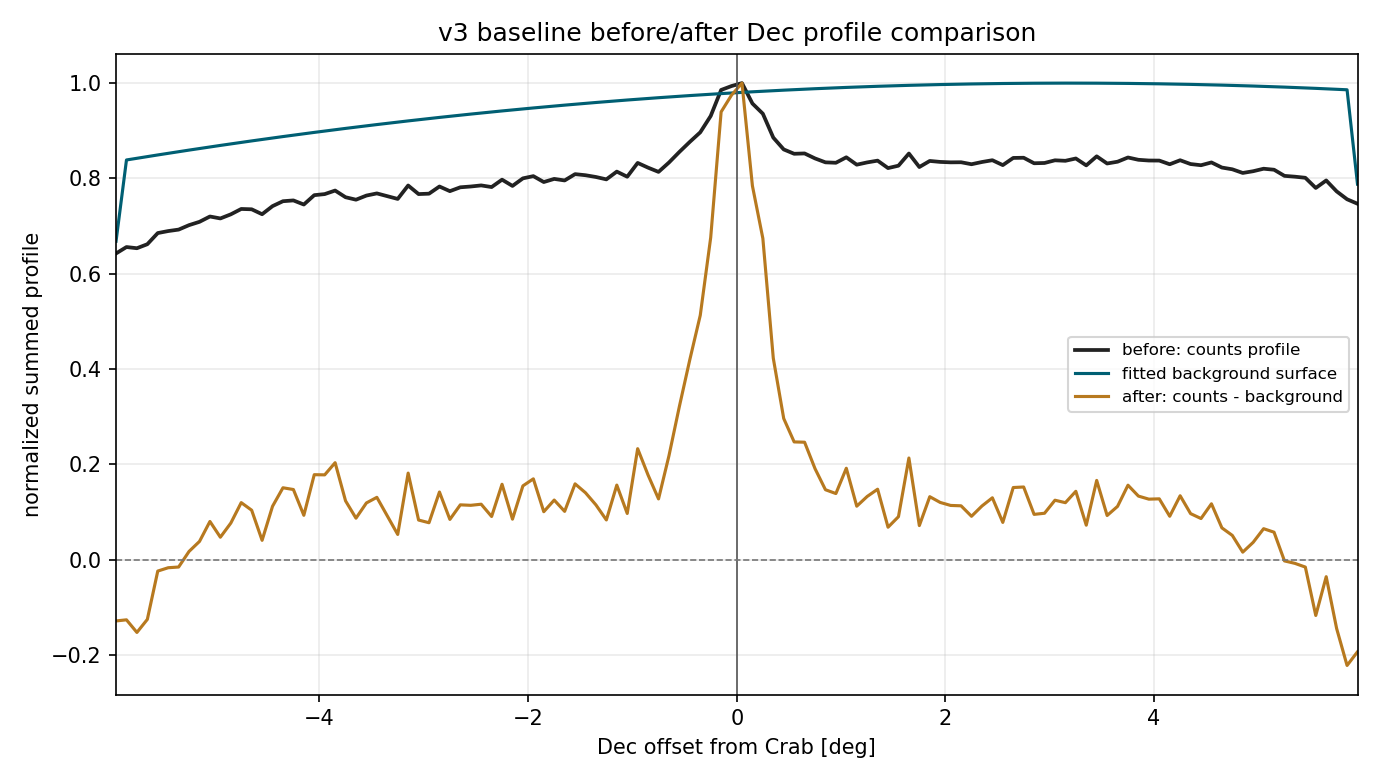
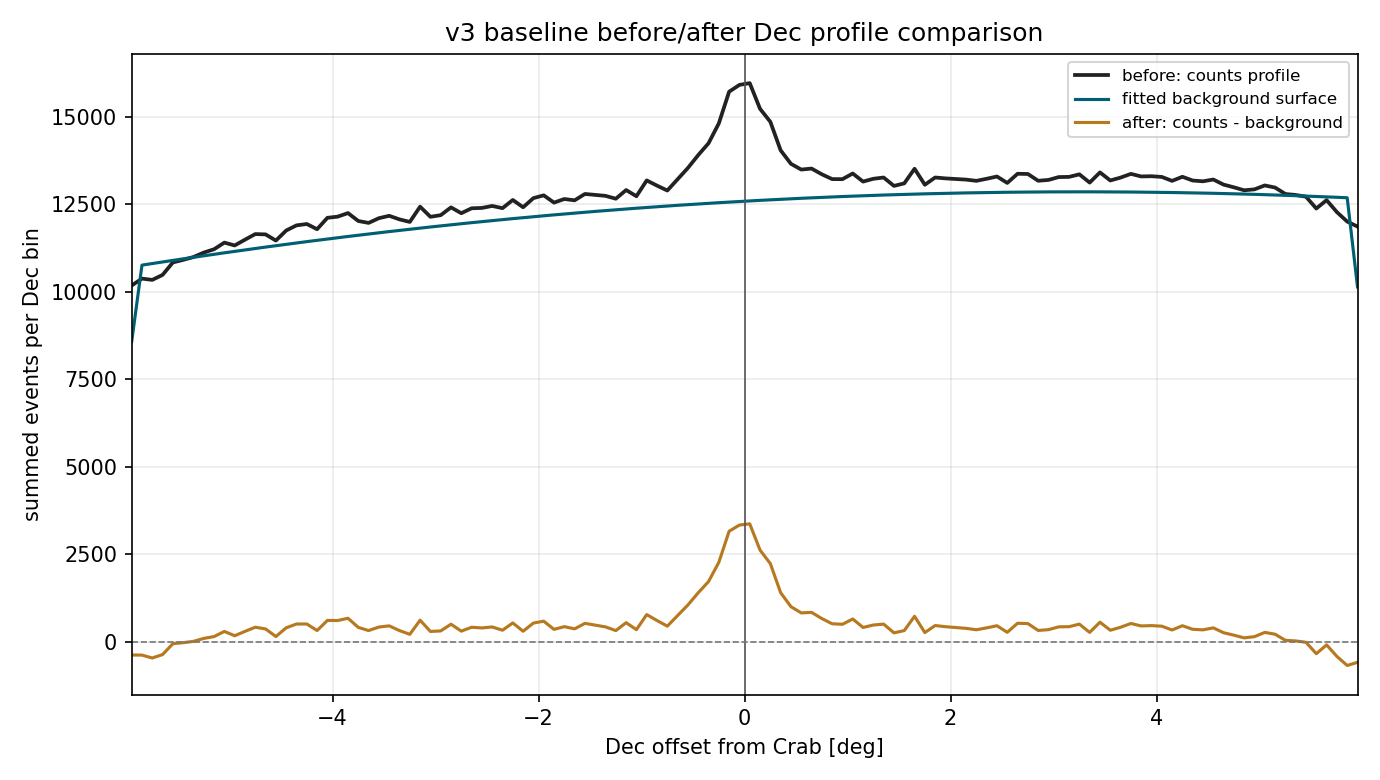
Use raw Dec profiles in v3 background comparison

diff --git a/apply/report/crab_sed_v3_stage_a_to_g_report.html b/apply/report/crab_sed_v3_stage_a_to_g_report.html
@@ -362,7 +362,7 @@ footer { margin-top:48px; padding-top:18px; border-top:1px solid var(--border); 
     <div class="callout">
       图表读法：candidate-grid 图通常按行显示 Nhit bin、按列显示 predE bin；白色圆圈表示 <code>rho=6 deg</code> fiducial ROI，中心标记是 Crab。空白或破碎 panel 通常来自 excluded diagnostic/probe cells 的零统计或低统计，不代表 baseline fit cells 全部失败。先看 counts 和 training mask，再看 fitted background、annulus residual，最后看 excess 和 Stage F/G 结果。
     </div>
-    <div class="figure-grid"><figure class="wide"><img src="assets/v3-cell-selection/v3_cell_selection_matrix.png" alt="v3 cell selection matrix"><figcaption><strong>v3 cell selection matrix</strong><span class="figure-note">Rows are Nhit bins and columns are predE bins. The colors separate baseline fit cells, systematics/probe cells, and cells excluded by prefit MC/response rules; this is the selector freeze audit, not a Crab-excess driven selection.</span></figcaption></figure><figure class="wide"><img src="assets/v3-cell-selection/v3_mc_true_energy_overlay.png" alt="MC normalized true-energy distribution overlay"><figcaption><strong>MC normalized true-energy distribution overlay</strong><span class="figure-note">Each colored curve is the normalized MC true-energy distribution for one v3 predE bin. Use it to see energy overlap, median shifts, and whether the mixed binning gives sensible true-energy coverage.</span></figcaption></figure><figure class="wide"><img src="assets/v3-cell-selection/v3_central99_mask.png" alt="MC central-99% selection mask"><figcaption><strong>MC central-99% selection mask</strong><span class="figure-note">This shows which Nhit x predE cells fall inside the MC reconstructed-energy central-99% population. It is the first prefit selector cut and does not use Crab excess or fit residuals.</span></figcaption></figure><figure class="wide"><img src="assets/v3-cell-selection/v3_mc_occupancy_ridge_fraction.png" alt="MC occupancy ridge fraction"><figcaption><strong>MC occupancy ridge fraction</strong><span class="figure-note">Each cell is normalized by the maximum MC count in its Nhit row. The v3 baseline ridge is generated from this prefit occupancy fraction together with central99, MC-count, and high-energy-bin rules; highlighted baseline cells are not chosen from Crab on-source significance.</span></figcaption></figure><figure class="wide"><img src="assets/crab-v3-baseline-fit-cell-profiles/crab_v3_baseline_fit_ra_normalized_counts_profiles.png" alt="candidate-grid normalized RA-offset counts profiles (v3_baseline fit cells highlighted)"><figcaption><strong>candidate-grid normalized RA-offset counts profiles (v3_baseline fit cells highlighted)</strong><span class="figure-note">For every candidate cell, counts are summed in a |Dec offset|&lt;1 deg band and divided by that cell&#x27;s own peak. Light gray bands mark that cell&#x27;s Stage D annulus-training radii projected onto the RA-offset slice as [-outer,-inner] and [inner,outer]; highlighted panels are baseline fit cells. Empty panels mean the profile peak is zero or the cell has no usable events in the profile band.</span></figcaption></figure><figure class="wide"><img src="assets/crab-v3-baseline-fit-cell-profiles/crab_v3_baseline_fit_dec_normalized_counts_profiles.png" alt="candidate-grid normalized Dec-offset counts profiles (v3_baseline fit cells highlighted)"><figcaption><strong>candidate-grid normalized Dec-offset counts profiles (v3_baseline fit cells highlighted)</strong><span class="figure-note">For every candidate cell, counts are summed in a |RA offset|&lt;1 deg band and normalized by the cell&#x27;s peak. Compare this with the RA profile to check Dec-direction imbalance and PSF width changes across cells.</span></figcaption></figure><figure class="wide"><img src="assets/crab-v3-baseline-fit-cell-profiles/crab_v3_baseline_fit_ra_normalized_excess_profiles.png" alt="candidate-grid normalized RA-offset excess profiles after background subtraction (v3_baseline fit cells highlighted)"><figcaption><strong>candidate-grid normalized RA-offset excess profiles after background subtraction (v3_baseline fit cells highlighted)</strong><span class="figure-note">Same RA profile diagnostic after subtracting the fitted background. A centered narrow excess is desirable; asymmetric tails indicate residual background or low-stat behavior.</span></figcaption></figure><figure class="wide"><img src="assets/crab-v3-baseline-fit-cell-profiles/crab_v3_baseline_fit_dec_normalized_excess_profiles.png" alt="candidate-grid normalized Dec-offset excess profiles after background subtraction (v3_baseline fit cells highlighted)"><figcaption><strong>candidate-grid normalized Dec-offset excess profiles after background subtraction (v3_baseline fit cells highlighted)</strong><span class="figure-note">Same Dec profile diagnostic after background subtraction. This is the direct check of whether the v3 annulus surface reduces Dec-direction background imbalance around Crab.</span></figcaption></figure><figure class="wide"><img src="../output/stage_d_v3_candidate/runs/v3_stage_d_slurm_42024/roi_counts_grid.png" alt="Stage D counts map grid with rho=6 deg circle"><figcaption><strong>Stage D counts map grid with rho=6 deg circle</strong><span class="figure-note">Observed candidate-grid counts maps. The shared log color scale makes gross background levels comparable across cells, but low-stat cells can look blank because they contain few or no events.</span></figcaption></figure><figure class="wide"><img src="../output/stage_d_v3_candidate/runs/v3_stage_d_slurm_42024/annulus_training_mask_grid.png" alt="Annulus training mask grid"><figcaption><strong>Annulus training mask grid</strong><span class="figure-note">Shows which pixels train the local background surface for each cell. The source/core region is excluded; shifted annuli appear at larger radius for broad-PSF or low-Nhit cells.</span></figcaption></figure><figure class="wide"><img src="../output/stage_d_v3_candidate/runs/v3_stage_d_slurm_42024/roi_background_grid.png" alt="Fitted 2D background surface grid"><figcaption><strong>Fitted 2D background surface grid</strong><span class="figure-note">This is the fitted background expectation, not data and not excess. Stage D fits a quadratic 2D surface on the annulus and extrapolates it across the ROI; smooth surfaces are good, while holes, crescent shapes, or sharp edge features usually flag low-stat or failed diagnostic cells.</span></figcaption></figure><figure class="wide"><img src="../output/stage_d_v3_candidate/runs/v3_stage_d_slurm_42024/annulus_residual_grid.png" alt="Annulus residual grid"><figcaption><strong>Annulus residual grid</strong><span class="figure-note">Residuals in the annulus training region after fitting the background surface. Values should be structureless around zero; coherent RA/Dec patterns mean the quadratic surface is not capturing the local background.</span></figcaption></figure><figure class="wide"><img src="../output/stage_d_v3_candidate/runs/v3_stage_d_slurm_42024/core_background_grid.png" alt="Core extrapolated background grid"><figcaption><strong>Core extrapolated background grid</strong><span class="figure-note">Background expectation restricted to the source/on aperture used for B_on. This view shows exactly what is integrated as background under the Crab region for each cell.</span></figcaption></figure><figure class="wide"><img src="../output/stage_d_v3_candidate/runs/v3_stage_d_slurm_42024/roi_excess_grid.png" alt="Stage D counts minus fitted 2D background skymap"><figcaption><strong>Stage D counts minus fitted 2D background skymap</strong><span class="figure-note">Candidate-grid residual skymaps computed as observed Stage D counts minus the fitted 2D background surface. This is the background-subtracted counterpart to the counts map grid with the rho=6 deg circle.</span></figcaption></figure><figure class="wide"><img src="assets/v3-background-systematics/v3_background_before_after_dec_profile.png" alt="Before/after Dec profile comparison for v3 baseline fit cells"><figcaption><strong>Before/after Dec profile comparison for v3 baseline fit cells</strong><span class="figure-note">Compares Dec-direction behavior before and after applying the v3 background method. The goal is to reduce Dec-gradient residuals without erasing the central Crab excess.</span></figcaption></figure><figure class="wide"><img src="assets/v3-background-systematics/v3_background_method_sensitivity_summary.png" alt="Background-method sensitivity summary"><figcaption><strong>Background-method sensitivity summary</strong><span class="figure-note">Compares nominal and alternative background variants such as annulus placement and surface order. Large shifts in flux or sigma indicate background-model systematic risk.</span></figcaption></figure><figure class="wide"><img src="assets/v3-validation/v3_selector_sensitivity_summary.png" alt="Cell-selection sensitivity summary"><figcaption><strong>Cell-selection sensitivity summary</strong><span class="figure-note">Selector audit using the current active 30-cell PSF-borrow selector as the reference. The 27-cell nominal reference is the pre-borrow selector that drops 39/52/65; the 62-cell expanded selector tests whether adding central99 cells improves or destabilizes the fit.</span></figcaption></figure><figure class="wide"><img src="assets/v3-validation/v3_response_closure_summary.png" alt="Stage A response histogram self-closure summary"><figcaption><strong>Stage A response histogram self-closure summary</strong><span class="figure-note">Checks whether Stage A response histograms fold back to their MC numerator truth. Large closure errors point to response binning, normalization, or bookkeeping problems.</span></figcaption></figure><figure><img src="../output/stage_f_v3_baseline/runs/v3_stage_f_slurm_42024/model_counts_vs_excess.png" alt="Stage F model counts vs excess"><figcaption><strong>Stage F model counts vs excess</strong><span class="figure-note">Compares forward-folded model counts to Stage E excess per fit cell. Points far from the one-to-one trend identify cells that dominate chi-square or disagree with the fitted spectrum.</span></figcaption></figure><figure><img src="../output/stage_f_v3_baseline/runs/v3_stage_f_slurm_42024/pull_grid_logpar.png" alt="Stage F pull grid"><figcaption><strong>Stage F pull grid</strong><span class="figure-note">Per-cell fit pull for the preferred spectral model. Random small pulls are expected; coherent regions in Nhit/predE space suggest response, background, or selector systematics.</span></figcaption></figure><figure class="wide"><img src="assets/official-pass5/stage_g_sed_points_with_official_refs.png" alt="Stage G SED points"><figcaption><strong>Stage G SED points</strong><span class="figure-note">Diagnostic SED points built by refitting normalization in reconstructed-energy groups with the Stage F spectral shape fixed. This report version overlays the official pass5 Nhit SED and tutorial v0.99 WCDA-only SED directly on the Stage G SED plot; pass5 points are shown without error bars because the transferred summary did not include uncertainties.</span></figcaption></figure><figure class="wide"><img src="assets/official-pass5/wcda_pass5_vs_v3_stage_g_sed_overlay.png" alt="Official/tutorial WCDA SEDs versus v3 Stage G diagnostics"><figcaption><strong>Official/tutorial WCDA SEDs versus v3 Stage G diagnostics</strong><span class="figure-note">Standalone comparison view for official pass5 Nhit SED and tutorial v0.99 WCDA-only SED points versus v3 Stage G diagnostics. Keep this separate view for checking the two external WCDA products against nominal and PSF-borrow v3 points.</span></figcaption></figure><figure><img src="../output/stage_g_v3_baseline/runs/v3_stage_g_slurm_42024/sed_points_ratio.png" alt="Stage G SED ratios"><figcaption><strong>Stage G SED ratios</strong><span class="figure-note">Ratio of each diagnostic SED point to the Stage F reference model. A flat ratio near one means Stage G is consistent with the global fit; trends reveal curvature or bin-specific bias.</span></figcaption></figure><figure><img src="../output/stage_g_v3_baseline/runs/v3_stage_g_slurm_42024/sed_point_cell_counts.png" alt="Stage G cell counts per point"><figcaption><strong>Stage G cell counts per point</strong><span class="figure-note">Shows how many cells contribute to each Stage G SED point. High-energy points with few cells should be interpreted more conservatively.</span></figcaption></figure><figure class="wide"><img src="assets/crab-v3-psfborrow-fit-cell-skymaps/crab_v3_psfborrow_fit_counts_grid.png" alt="PSF-borrow fit-cell Stage D counts skymap"><figcaption><strong>PSF-borrow fit-cell Stage D counts skymap</strong><span class="figure-note">Observed counts maps for the PSF borrowing systematic selector. Cells 39/52/65 are included after neighboring-PSF repair, while high-Nhit edge cells 79/80 remain excluded.</span></figcaption></figure><figure class="wide"><img src="assets/crab-v3-psfborrow-fit-cell-skymaps/crab_v3_psfborrow_fit_excess_grid.png" alt="PSF-borrow fit-cell Stage D excess skymap"><figcaption><strong>PSF-borrow fit-cell Stage D excess skymap</strong><span class="figure-note">Counts minus fitted background for the PSF borrowing systematic selector. Compare against the nominal fit-cell excess map to isolate aperture/containment-driven changes.</span></figcaption></figure><figure class="wide"><img src="assets/v3-psfborrow/v3_psfborrow_sed_overlay.png" alt="PSF-borrow versus nominal Stage G SED overlay"><figcaption><strong>PSF-borrow versus nominal Stage G SED overlay</strong><span class="figure-note">Nominal reference Stage G points and PSF borrowing systematic points overlaid. This is a systematic comparison, not a new nominal promotion.</span></figcaption></figure><figure><img src="../output/stage_g_v3_baseline_psfborrow/runs/v3_stage_g_psfborrow_slurm_42029/sed_points_stage_f_fullarray_pool1.png" alt="PSF-borrow Stage G SED points"><figcaption><strong>PSF-borrow Stage G SED points</strong><span class="figure-note">Diagnostic SED points built from the PSF borrowing Stage F spectrum and Stage E signal table.</span></figcaption></figure><figure><img src="../output/stage_g_v3_baseline_psfborrow/runs/v3_stage_g_psfborrow_slurm_42029/sed_points_ratio.png" alt="PSF-borrow Stage G SED ratios"><figcaption><strong>PSF-borrow Stage G SED ratios</strong><span class="figure-note">Ratio of the PSF borrowing diagnostic SED points to the corresponding Stage F reference model.</span></figcaption></figure><figure class="wide"><img src="assets/v3-normalization-diagnostics/v3_official_forward_fold_counts_vs_excess.png" alt="Official/tutorial forward-fold expected counts versus Stage E excess"><figcaption><strong>Official/tutorial forward-fold expected counts versus Stage E excess</strong><span class="figure-note">The official pass5 and tutorial v0.99 SED points are interpolated as piecewise power laws, folded through the Stage A response and Stage F theta exposure, and compared cell-by-cell with Stage E excess. Points above the dashed diagonal mean observed excess exceeds the official/tutorial expectation.</span></figcaption></figure><figure class="wide"><img src="assets/v3-normalization-diagnostics/v3_official_forward_fold_ratio_by_cell.png" alt="Official/tutorial forward-fold normalization ratio by cell"><figcaption><strong>Official/tutorial forward-fold normalization ratio by cell</strong><span class="figure-note">Active 30-cell PSF-borrow branch only. The dashed and dotted reference lines mark observed/expected = 1 and 1.5.</span></figcaption></figure><figure class="wide"><img src="assets/v3-normalization-diagnostics/v3_offsource_core_residual_by_cell.png" alt="Off-source fake-source core residual by cell"><figcaption><strong>Off-source fake-source core residual by cell</strong><span class="figure-note">Fake-source Stage E residuals in the active 30-cell branch. Positive residuals would support a local background underprediction; the produced controls are dominated by negative residuals.</span></figcaption></figure></div>
+    <div class="figure-grid"><figure class="wide"><img src="assets/v3-cell-selection/v3_cell_selection_matrix.png" alt="v3 cell selection matrix"><figcaption><strong>v3 cell selection matrix</strong><span class="figure-note">Rows are Nhit bins and columns are predE bins. The colors separate baseline fit cells, systematics/probe cells, and cells excluded by prefit MC/response rules; this is the selector freeze audit, not a Crab-excess driven selection.</span></figcaption></figure><figure class="wide"><img src="assets/v3-cell-selection/v3_mc_true_energy_overlay.png" alt="MC normalized true-energy distribution overlay"><figcaption><strong>MC normalized true-energy distribution overlay</strong><span class="figure-note">Each colored curve is the normalized MC true-energy distribution for one v3 predE bin. Use it to see energy overlap, median shifts, and whether the mixed binning gives sensible true-energy coverage.</span></figcaption></figure><figure class="wide"><img src="assets/v3-cell-selection/v3_central99_mask.png" alt="MC central-99% selection mask"><figcaption><strong>MC central-99% selection mask</strong><span class="figure-note">This shows which Nhit x predE cells fall inside the MC reconstructed-energy central-99% population. It is the first prefit selector cut and does not use Crab excess or fit residuals.</span></figcaption></figure><figure class="wide"><img src="assets/v3-cell-selection/v3_mc_occupancy_ridge_fraction.png" alt="MC occupancy ridge fraction"><figcaption><strong>MC occupancy ridge fraction</strong><span class="figure-note">Each cell is normalized by the maximum MC count in its Nhit row. The v3 baseline ridge is generated from this prefit occupancy fraction together with central99, MC-count, and high-energy-bin rules; highlighted baseline cells are not chosen from Crab on-source significance.</span></figcaption></figure><figure class="wide"><img src="assets/crab-v3-baseline-fit-cell-profiles/crab_v3_baseline_fit_ra_normalized_counts_profiles.png" alt="candidate-grid normalized RA-offset counts profiles (v3_baseline fit cells highlighted)"><figcaption><strong>candidate-grid normalized RA-offset counts profiles (v3_baseline fit cells highlighted)</strong><span class="figure-note">For every candidate cell, counts are summed in a |Dec offset|&lt;1 deg band and divided by that cell&#x27;s own peak. Light gray bands mark that cell&#x27;s Stage D annulus-training radii projected onto the RA-offset slice as [-outer,-inner] and [inner,outer]; highlighted panels are baseline fit cells. Empty panels mean the profile peak is zero or the cell has no usable events in the profile band.</span></figcaption></figure><figure class="wide"><img src="assets/crab-v3-baseline-fit-cell-profiles/crab_v3_baseline_fit_dec_normalized_counts_profiles.png" alt="candidate-grid normalized Dec-offset counts profiles (v3_baseline fit cells highlighted)"><figcaption><strong>candidate-grid normalized Dec-offset counts profiles (v3_baseline fit cells highlighted)</strong><span class="figure-note">For every candidate cell, counts are summed in a |RA offset|&lt;1 deg band and normalized by the cell&#x27;s peak. Compare this with the RA profile to check Dec-direction imbalance and PSF width changes across cells.</span></figcaption></figure><figure class="wide"><img src="assets/crab-v3-baseline-fit-cell-profiles/crab_v3_baseline_fit_ra_normalized_excess_profiles.png" alt="candidate-grid normalized RA-offset excess profiles after background subtraction (v3_baseline fit cells highlighted)"><figcaption><strong>candidate-grid normalized RA-offset excess profiles after background subtraction (v3_baseline fit cells highlighted)</strong><span class="figure-note">Same RA profile diagnostic after subtracting the fitted background. A centered narrow excess is desirable; asymmetric tails indicate residual background or low-stat behavior.</span></figcaption></figure><figure class="wide"><img src="assets/crab-v3-baseline-fit-cell-profiles/crab_v3_baseline_fit_dec_normalized_excess_profiles.png" alt="candidate-grid normalized Dec-offset excess profiles after background subtraction (v3_baseline fit cells highlighted)"><figcaption><strong>candidate-grid normalized Dec-offset excess profiles after background subtraction (v3_baseline fit cells highlighted)</strong><span class="figure-note">Same Dec profile diagnostic after background subtraction. This is the direct check of whether the v3 annulus surface reduces Dec-direction background imbalance around Crab.</span></figcaption></figure><figure class="wide"><img src="../output/stage_d_v3_candidate/runs/v3_stage_d_slurm_42024/roi_counts_grid.png" alt="Stage D counts map grid with rho=6 deg circle"><figcaption><strong>Stage D counts map grid with rho=6 deg circle</strong><span class="figure-note">Observed candidate-grid counts maps. The shared log color scale makes gross background levels comparable across cells, but low-stat cells can look blank because they contain few or no events.</span></figcaption></figure><figure class="wide"><img src="../output/stage_d_v3_candidate/runs/v3_stage_d_slurm_42024/annulus_training_mask_grid.png" alt="Annulus training mask grid"><figcaption><strong>Annulus training mask grid</strong><span class="figure-note">Shows which pixels train the local background surface for each cell. The source/core region is excluded; shifted annuli appear at larger radius for broad-PSF or low-Nhit cells.</span></figcaption></figure><figure class="wide"><img src="../output/stage_d_v3_candidate/runs/v3_stage_d_slurm_42024/roi_background_grid.png" alt="Fitted 2D background surface grid"><figcaption><strong>Fitted 2D background surface grid</strong><span class="figure-note">This is the fitted background expectation, not data and not excess. Stage D fits a quadratic 2D surface on the annulus and extrapolates it across the ROI; smooth surfaces are good, while holes, crescent shapes, or sharp edge features usually flag low-stat or failed diagnostic cells.</span></figcaption></figure><figure class="wide"><img src="../output/stage_d_v3_candidate/runs/v3_stage_d_slurm_42024/annulus_residual_grid.png" alt="Annulus residual grid"><figcaption><strong>Annulus residual grid</strong><span class="figure-note">Residuals in the annulus training region after fitting the background surface. Values should be structureless around zero; coherent RA/Dec patterns mean the quadratic surface is not capturing the local background.</span></figcaption></figure><figure class="wide"><img src="../output/stage_d_v3_candidate/runs/v3_stage_d_slurm_42024/core_background_grid.png" alt="Core extrapolated background grid"><figcaption><strong>Core extrapolated background grid</strong><span class="figure-note">Background expectation restricted to the source/on aperture used for B_on. This view shows exactly what is integrated as background under the Crab region for each cell.</span></figcaption></figure><figure class="wide"><img src="../output/stage_d_v3_candidate/runs/v3_stage_d_slurm_42024/roi_excess_grid.png" alt="Stage D counts minus fitted 2D background skymap"><figcaption><strong>Stage D counts minus fitted 2D background skymap</strong><span class="figure-note">Candidate-grid residual skymaps computed as observed Stage D counts minus the fitted 2D background surface. This is the background-subtracted counterpart to the counts map grid with the rho=6 deg circle.</span></figcaption></figure><figure class="wide"><img src="assets/v3-background-systematics/v3_background_before_after_dec_profile.png" alt="Before/after Dec profile comparison for v3 baseline fit cells"><figcaption><strong>Before/after Dec profile comparison for v3 baseline fit cells</strong><span class="figure-note">Compares unnormalized summed Dec profiles before and after applying the v3 background method, using the baseline fit cells and the same |RA offset|&lt;1 deg band. The goal is to see the absolute Dec-gradient residual rather than peak-normalized shapes.</span></figcaption></figure><figure class="wide"><img src="assets/v3-background-systematics/v3_background_method_sensitivity_summary.png" alt="Background-method sensitivity summary"><figcaption><strong>Background-method sensitivity summary</strong><span class="figure-note">Compares nominal and alternative background variants such as annulus placement and surface order. Large shifts in flux or sigma indicate background-model systematic risk.</span></figcaption></figure><figure class="wide"><img src="assets/v3-validation/v3_selector_sensitivity_summary.png" alt="Cell-selection sensitivity summary"><figcaption><strong>Cell-selection sensitivity summary</strong><span class="figure-note">Selector audit using the current active 30-cell PSF-borrow selector as the reference. The 27-cell nominal reference is the pre-borrow selector that drops 39/52/65; the 62-cell expanded selector tests whether adding central99 cells improves or destabilizes the fit.</span></figcaption></figure><figure class="wide"><img src="assets/v3-validation/v3_response_closure_summary.png" alt="Stage A response histogram self-closure summary"><figcaption><strong>Stage A response histogram self-closure summary</strong><span class="figure-note">Checks whether Stage A response histograms fold back to their MC numerator truth. Large closure errors point to response binning, normalization, or bookkeeping problems.</span></figcaption></figure><figure><img src="../output/stage_f_v3_baseline/runs/v3_stage_f_slurm_42024/model_counts_vs_excess.png" alt="Stage F model counts vs excess"><figcaption><strong>Stage F model counts vs excess</strong><span class="figure-note">Compares forward-folded model counts to Stage E excess per fit cell. Points far from the one-to-one trend identify cells that dominate chi-square or disagree with the fitted spectrum.</span></figcaption></figure><figure><img src="../output/stage_f_v3_baseline/runs/v3_stage_f_slurm_42024/pull_grid_logpar.png" alt="Stage F pull grid"><figcaption><strong>Stage F pull grid</strong><span class="figure-note">Per-cell fit pull for the preferred spectral model. Random small pulls are expected; coherent regions in Nhit/predE space suggest response, background, or selector systematics.</span></figcaption></figure><figure class="wide"><img src="assets/official-pass5/stage_g_sed_points_with_official_refs.png" alt="Stage G SED points"><figcaption><strong>Stage G SED points</strong><span class="figure-note">Diagnostic SED points built by refitting normalization in reconstructed-energy groups with the Stage F spectral shape fixed. This report version overlays the official pass5 Nhit SED and tutorial v0.99 WCDA-only SED directly on the Stage G SED plot; pass5 points are shown without error bars because the transferred summary did not include uncertainties.</span></figcaption></figure><figure class="wide"><img src="assets/official-pass5/wcda_pass5_vs_v3_stage_g_sed_overlay.png" alt="Official/tutorial WCDA SEDs versus v3 Stage G diagnostics"><figcaption><strong>Official/tutorial WCDA SEDs versus v3 Stage G diagnostics</strong><span class="figure-note">Standalone comparison view for official pass5 Nhit SED and tutorial v0.99 WCDA-only SED points versus v3 Stage G diagnostics. Keep this separate view for checking the two external WCDA products against nominal and PSF-borrow v3 points.</span></figcaption></figure><figure><img src="../output/stage_g_v3_baseline/runs/v3_stage_g_slurm_42024/sed_points_ratio.png" alt="Stage G SED ratios"><figcaption><strong>Stage G SED ratios</strong><span class="figure-note">Ratio of each diagnostic SED point to the Stage F reference model. A flat ratio near one means Stage G is consistent with the global fit; trends reveal curvature or bin-specific bias.</span></figcaption></figure><figure><img src="../output/stage_g_v3_baseline/runs/v3_stage_g_slurm_42024/sed_point_cell_counts.png" alt="Stage G cell counts per point"><figcaption><strong>Stage G cell counts per point</strong><span class="figure-note">Shows how many cells contribute to each Stage G SED point. High-energy points with few cells should be interpreted more conservatively.</span></figcaption></figure><figure class="wide"><img src="assets/crab-v3-psfborrow-fit-cell-skymaps/crab_v3_psfborrow_fit_counts_grid.png" alt="PSF-borrow fit-cell Stage D counts skymap"><figcaption><strong>PSF-borrow fit-cell Stage D counts skymap</strong><span class="figure-note">Observed counts maps for the PSF borrowing systematic selector. Cells 39/52/65 are included after neighboring-PSF repair, while high-Nhit edge cells 79/80 remain excluded.</span></figcaption></figure><figure class="wide"><img src="assets/crab-v3-psfborrow-fit-cell-skymaps/crab_v3_psfborrow_fit_excess_grid.png" alt="PSF-borrow fit-cell Stage D excess skymap"><figcaption><strong>PSF-borrow fit-cell Stage D excess skymap</strong><span class="figure-note">Counts minus fitted background for the PSF borrowing systematic selector. Compare against the nominal fit-cell excess map to isolate aperture/containment-driven changes.</span></figcaption></figure><figure class="wide"><img src="assets/v3-psfborrow/v3_psfborrow_sed_overlay.png" alt="PSF-borrow versus nominal Stage G SED overlay"><figcaption><strong>PSF-borrow versus nominal Stage G SED overlay</strong><span class="figure-note">Nominal reference Stage G points and PSF borrowing systematic points overlaid. This is a systematic comparison, not a new nominal promotion.</span></figcaption></figure><figure><img src="../output/stage_g_v3_baseline_psfborrow/runs/v3_stage_g_psfborrow_slurm_42029/sed_points_stage_f_fullarray_pool1.png" alt="PSF-borrow Stage G SED points"><figcaption><strong>PSF-borrow Stage G SED points</strong><span class="figure-note">Diagnostic SED points built from the PSF borrowing Stage F spectrum and Stage E signal table.</span></figcaption></figure><figure><img src="../output/stage_g_v3_baseline_psfborrow/runs/v3_stage_g_psfborrow_slurm_42029/sed_points_ratio.png" alt="PSF-borrow Stage G SED ratios"><figcaption><strong>PSF-borrow Stage G SED ratios</strong><span class="figure-note">Ratio of the PSF borrowing diagnostic SED points to the corresponding Stage F reference model.</span></figcaption></figure><figure class="wide"><img src="assets/v3-normalization-diagnostics/v3_official_forward_fold_counts_vs_excess.png" alt="Official/tutorial forward-fold expected counts versus Stage E excess"><figcaption><strong>Official/tutorial forward-fold expected counts versus Stage E excess</strong><span class="figure-note">The official pass5 and tutorial v0.99 SED points are interpolated as piecewise power laws, folded through the Stage A response and Stage F theta exposure, and compared cell-by-cell with Stage E excess. Points above the dashed diagonal mean observed excess exceeds the official/tutorial expectation.</span></figcaption></figure><figure class="wide"><img src="assets/v3-normalization-diagnostics/v3_official_forward_fold_ratio_by_cell.png" alt="Official/tutorial forward-fold normalization ratio by cell"><figcaption><strong>Official/tutorial forward-fold normalization ratio by cell</strong><span class="figure-note">Active 30-cell PSF-borrow branch only. The dashed and dotted reference lines mark observed/expected = 1 and 1.5.</span></figcaption></figure><figure class="wide"><img src="assets/v3-normalization-diagnostics/v3_offsource_core_residual_by_cell.png" alt="Off-source fake-source core residual by cell"><figcaption><strong>Off-source fake-source core residual by cell</strong><span class="figure-note">Fake-source Stage E residuals in the active 30-cell branch. Positive residuals would support a local background underprediction; the produced controls are dominated by negative residuals.</span></figcaption></figure></div>
   </section>
 
   <section>

diff --git a/apply/report/build_v3_background_systematics.py b/apply/report/build_v3_background_systematics.py
@@ -46,6 +46,11 @@ def parse_args() -> argparse.Namespace:
     parser.add_argument("--exposure-sample-step-sec", type=float, default=60.0)
     parser.add_argument("--energy-quadrature-points", type=int, default=64)
     parser.add_argument("--profile-half-width-deg", type=float, default=1.0)
+    parser.add_argument(
+        "--plot-before-after-only",
+        action="store_true",
+        help="Only regenerate the before/after Dec profile PNG from the existing Stage D maps.",
+    )
     return parser.parse_args()
 
 
@@ -460,7 +465,7 @@ def plot_sensitivity_summary(rows: Sequence[Dict[str, object]], output: Path) ->
     plt.close(fig)
 
 
-def normalized_dec_profile(
+def summed_dec_profile(
     maps: np.ndarray,
     x_centers: np.ndarray,
     *,
@@ -474,9 +479,6 @@ def normalized_dec_profile(
     profile = clean.sum(axis=(0, 2), dtype=np.float64)
     y_mask = np.any(mask[:, x_band], axis=1)
     profile = np.where(y_mask, profile, np.nan)
-    peak = np.nanmax(np.abs(profile))
-    if peak > 0.0 and np.isfinite(peak):
-        profile = profile / peak
     return profile, y_mask
 
 
@@ -491,21 +493,21 @@ def plot_before_after_dec_profiles(
     half_width: float,
     output: Path,
 ) -> None:
-    counts_profile, keep = normalized_dec_profile(
+    counts_profile, keep = summed_dec_profile(
         counts_map.astype(np.float64),
         x_centers,
         mask=fiducial_mask,
         fit_mask=fit_mask,
         half_width=half_width,
     )
-    background_profile, _ = normalized_dec_profile(
+    background_profile, _ = summed_dec_profile(
         background_map.astype(np.float64),
         x_centers,
         mask=fiducial_mask,
         fit_mask=fit_mask,
         half_width=half_width,
     )
-    excess_profile, _ = normalized_dec_profile(
+    excess_profile, _ = summed_dec_profile(
         counts_map.astype(np.float64) - background_map.astype(np.float64),
         x_centers,
         mask=fiducial_mask,
@@ -521,7 +523,7 @@ def plot_before_after_dec_profiles(
     ax.axhline(0.0, color="#777777", linewidth=0.8, linestyle="--")
     ax.set_xlim(float(np.nanmin(y_centers[keep])), float(np.nanmax(y_centers[keep])))
     ax.set_xlabel("Dec offset from Crab [deg]")
-    ax.set_ylabel("normalized summed profile")
+    ax.set_ylabel("summed events per Dec bin")
     ax.set_title("v3 baseline before/after Dec profile comparison")
     ax.grid(alpha=0.25)
     ax.legend(fontsize=8)
@@ -529,6 +531,28 @@ def plot_before_after_dec_profiles(
     output.parent.mkdir(parents=True, exist_ok=True)
     fig.savefig(output)
     plt.close(fig)
+
+
+def plot_before_after_only(args: argparse.Namespace) -> None:
+    output_dir = resolve(args.output_dir)
+    output_dir.mkdir(parents=True, exist_ok=True)
+    stage_d = load_npz_dict(resolve(args.stage_d_npz))
+    baseline_ids = selector_ids(resolve(args.baseline_selector_csv))
+    fit_mask = baseline_mask(np.asarray(stage_d["cell_id"], dtype=np.int64), baseline_ids)
+    plot_before_after_dec_profiles(
+        counts_map=np.asarray(stage_d["counts_map"], dtype=np.float64),
+        background_map=np.asarray(stage_d["background_map"], dtype=np.float64),
+        x_centers=np.asarray(stage_d["x_centers_deg"], dtype=np.float64),
+        y_centers=np.asarray(stage_d["y_centers_deg"], dtype=np.float64),
+        fiducial_mask=np.asarray(stage_d["fiducial_mask"], dtype=bool),
+        fit_mask=fit_mask,
+        half_width=float(args.profile_half_width_deg),
+        output=output_dir / "v3_background_before_after_dec_profile.png",
+    )
+    print(json.dumps({
+        "before_after_dec_profile_png": str(output_dir / "v3_background_before_after_dec_profile.png"),
+        "normalized": False,
+    }, indent=2))
 
 
 def write_summary_csv(path: Path, rows: Sequence[Dict[str, object]]) -> None:
@@ -561,6 +585,10 @@ def write_summary_csv(path: Path, rows: Sequence[Dict[str, object]]) -> None:
 
 def main() -> None:
     args = parse_args()
+    if args.plot_before_after_only:
+        plot_before_after_only(args)
+        return
+
     output_dir = resolve(args.output_dir)
     signal_root = resolve(args.signal_output_dir)
     fit_root = resolve(args.fit_output_dir)

diff --git a/apply/report/build_v3_full_report.py b/apply/report/build_v3_full_report.py
@@ -2703,7 +2703,7 @@ def main() -> None:
             abs_path(args.before_after_dec_profile_png),
             "Before/after Dec profile comparison for v3 baseline fit cells",
             wide=True,
-            explanation="Compares Dec-direction behavior before and after applying the v3 background method. The goal is to reduce Dec-gradient residuals without erasing the central Crab excess.",
+            explanation="Compares unnormalized summed Dec profiles before and after applying the v3 background method, using the baseline fit cells and the same |RA offset|<1 deg band. The goal is to see the absolute Dec-gradient residual rather than peak-normalized shapes.",
         ),
         figure(
             abs_path(args.background_sensitivity_png),
